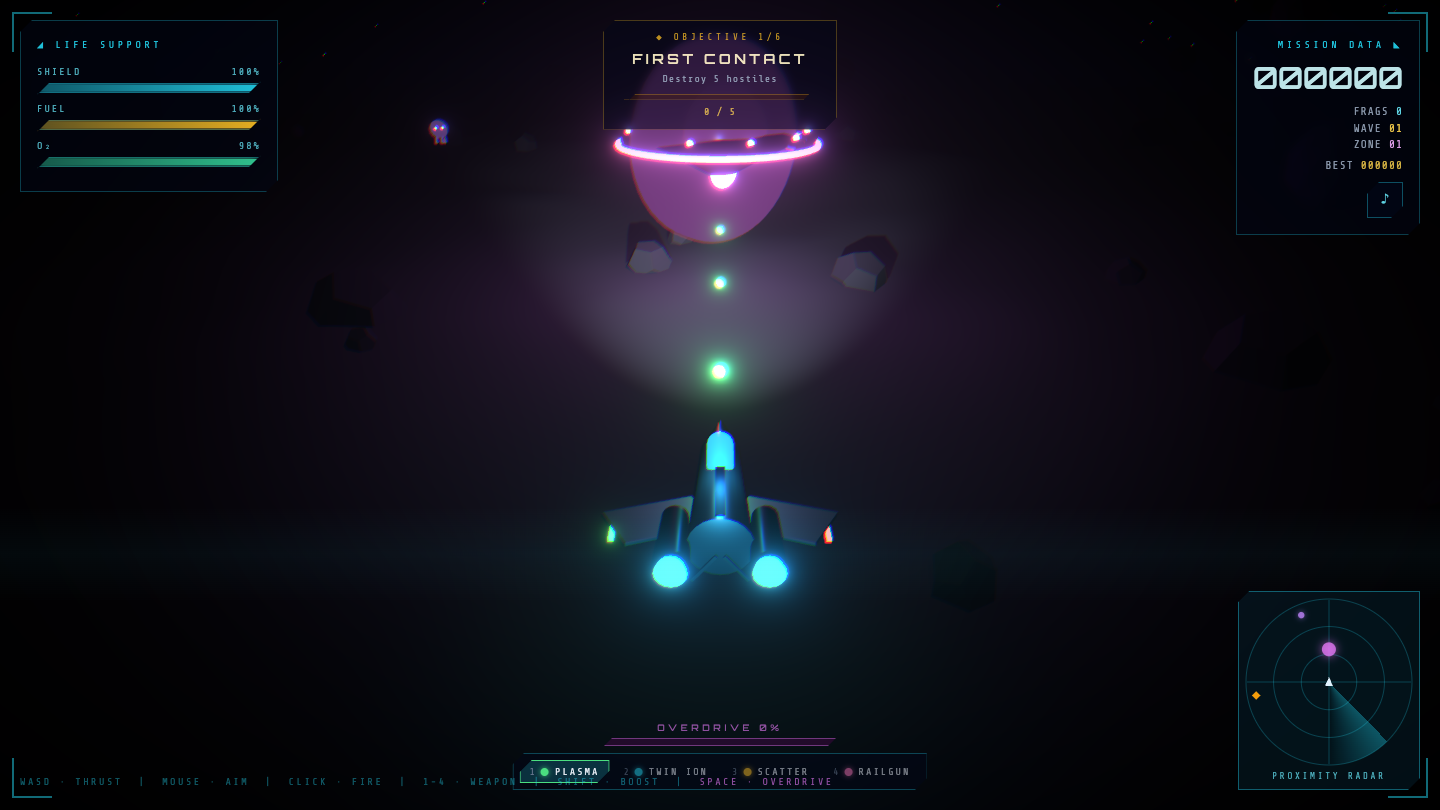
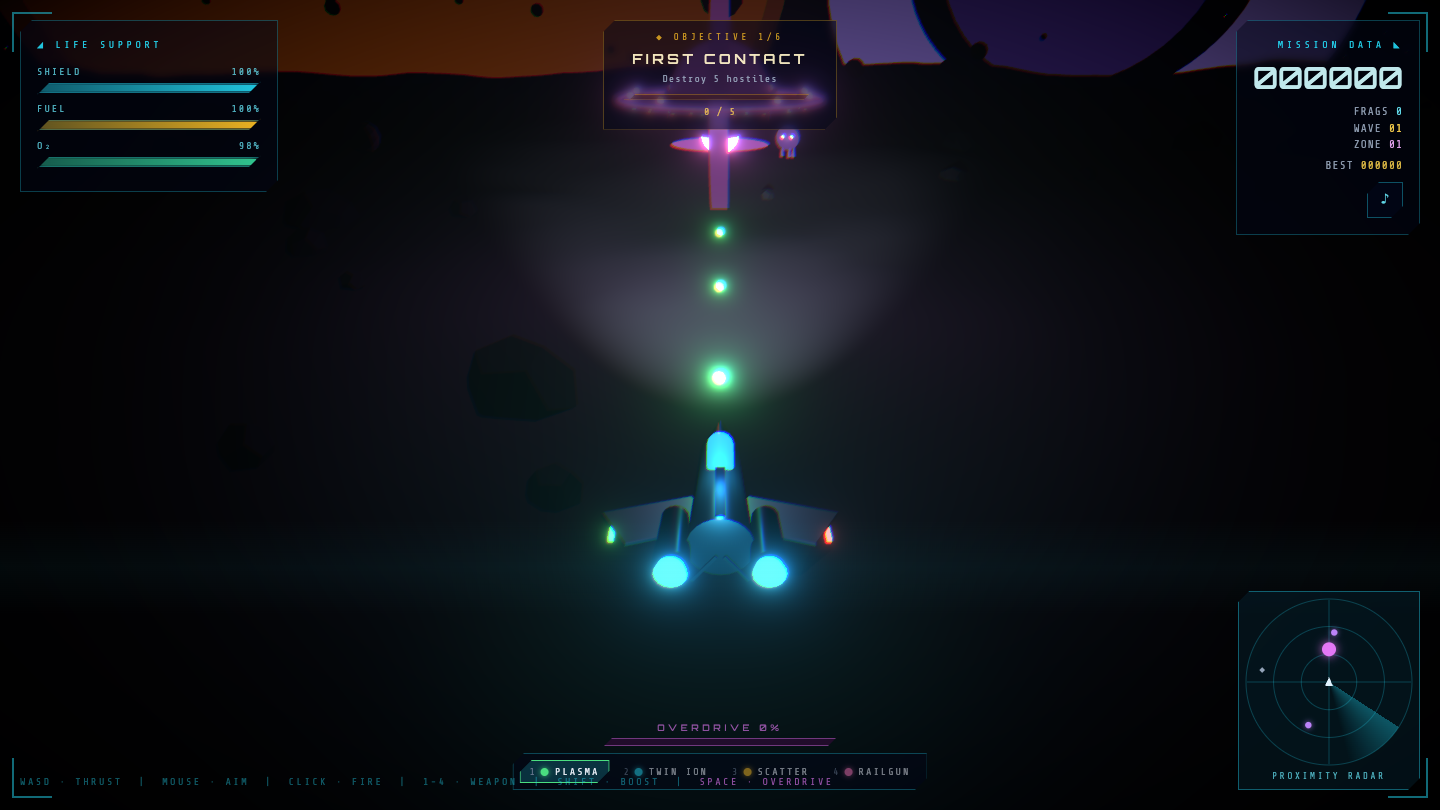
Mothership graphics overhaul + deep-space backdrop
- Mothership glow-up: bright animated electric energy ring, intensified
  magenta reactor core with a downward lens-flare, and 40 warm hull
  running-lights so the saucer reads like a lit city in the dark.
- Environment: distant spiral galaxies (canvas-textured additive sprites),
  a ringed gas giant, and a much larger red planet — all dropped onto the
  horizon line so they actually show under the downward camera. Denser
  starfield (8k).
- Stronger bloom (1.45 / 0.85 threshold) for the neon look.

diff --git a/components/Environment.tsx b/components/Environment.tsx
@@ -145,23 +145,98 @@ function FloatingAsteroids({ count = 45 }: { count?: number }) {
   );
 }
 
+// Soft radial glow texture for distant galaxies
+function makeGalaxyTexture(inner: string, outer: string) {
+  const size = 256;
+  const cv = document.createElement('canvas');
+  cv.width = cv.height = size;
+  const ctx = cv.getContext('2d')!;
+  const g = ctx.createRadialGradient(size / 2, size / 2, 0, size / 2, size / 2, size / 2);
+  g.addColorStop(0, inner);
+  g.addColorStop(0.25, outer);
+  g.addColorStop(1, 'rgba(0,0,0,0)');
+  ctx.fillStyle = g;
+  ctx.fillRect(0, 0, size, size);
+  // A couple of faint spiral sweeps for galaxy character
+  ctx.globalCompositeOperation = 'lighter';
+  ctx.strokeStyle = outer;
+  ctx.lineWidth = 6;
+  for (let s = 0; s < 2; s++) {
+    ctx.beginPath();
+    for (let a = 0; a < Math.PI * 2.4; a += 0.1) {
+      const r = a * 14 + 8;
+      const x = size / 2 + Math.cos(a + s * Math.PI) * r;
+      const y = size / 2 + Math.sin(a + s * Math.PI) * r * 0.5;
+      a === 0 ? ctx.moveTo(x, y) : ctx.lineTo(x, y);
+    }
+    ctx.stroke();
+  }
+  const tex = new THREE.CanvasTexture(cv);
+  return tex;
+}
+
+function Galaxies() {
+  const spirals = useMemo(
+    () => [
+      { tex: makeGalaxyTexture('rgba(255,255,255,0.9)', 'rgba(168,85,247,0.55)'), pos: [150, 38, -320], size: 64, rot: 0.5 },
+      { tex: makeGalaxyTexture('rgba(255,245,230,0.9)', 'rgba(56,189,248,0.4)'), pos: [-160, 48, -340], size: 50, rot: -0.8 },
+      { tex: makeGalaxyTexture('rgba(255,255,255,0.85)', 'rgba(232,121,249,0.45)'), pos: [40, 58, -350], size: 44, rot: 1.4 },
+    ],
+    []
+  );
+  return (
+    <>
+      {spirals.map((s, i) => (
+        <mesh key={i} position={s.pos as [number, number, number]} rotation={[0, 0, s.rot]}>
+          <planeGeometry args={[s.size, s.size]} />
+          <meshBasicMaterial
+            map={s.tex}
+            transparent
+            opacity={0.85}
+            blending={THREE.AdditiveBlending}
+            depthWrite={false}
+            fog={false}
+            toneMapped={false}
+          />
+        </mesh>
+      ))}
+    </>
+  );
+}
+
+// A distant ringed gas giant for depth
+function RingedPlanet() {
+  return (
+    <group position={[125, 34, -300]} rotation={[1.1, 0, 0.3]}>
+      <mesh>
+        <sphereGeometry args={[46, 48, 48]} />
+        <meshStandardMaterial color="#3b2a6b" emissive="#5b3ba8" emissiveIntensity={0.25} roughness={1} fog={false} />
+      </mesh>
+      <mesh rotation={[Math.PI / 2.1, 0, 0]}>
+        <ringGeometry args={[58, 88, 64]} />
+        <meshBasicMaterial color="#a78bfa" transparent opacity={0.35} side={THREE.DoubleSide} fog={false} toneMapped={false} />
+      </mesh>
+    </group>
+  );
+}
+
 function Mars() {
   return (
-    <group position={[-180, 90, -260]}>
+    <group position={[-95, 45, -285]}>
       <mesh>
-        <sphereGeometry args={[70, 48, 48]} />
+        <sphereGeometry args={[115, 64, 64]} />
         <meshStandardMaterial
           color="#7c2d12"
           emissive="#b4530a"
-          emissiveIntensity={0.22}
+          emissiveIntensity={0.28}
           roughness={1}
           fog={false}
         />
       </mesh>
-      {/* Faint rim glow */}
-      <mesh scale={1.04}>
-        <sphereGeometry args={[70, 32, 32]} />
-        <meshBasicMaterial color="#f97316" transparent opacity={0.05} side={THREE.BackSide} fog={false} />
+      {/* Atmospheric rim glow */}
+      <mesh scale={1.05}>
+        <sphereGeometry args={[115, 48, 48]} />
+        <meshBasicMaterial color="#f97316" transparent opacity={0.07} side={THREE.BackSide} fog={false} />
       </mesh>
     </group>
   );
@@ -175,8 +250,10 @@ export default function Environment() {
       {/* The faintest Mars-shine from above */}
       <hemisphereLight intensity={0.05} color="#b4530a" groundColor="#0a0a12" />
 
-      <Stars radius={300} depth={80} count={5000} factor={5} saturation={0} fade speed={0.4} />
+      <Stars radius={320} depth={90} count={8000} factor={5} saturation={0} fade speed={0.4} />
+      <Galaxies />
       <Mars />
+      <RingedPlanet />
       <PhobosTerrain />
       <SurfaceRocks />
       <FloatingAsteroids />

diff --git a/components/Aliens.tsx b/components/Aliens.tsx
@@ -24,6 +24,8 @@ function Alien({ data }: { data: AlienData }) {
   const healthBar = useRef<THREE.Mesh>(null);
   const droneTimer = useRef(5);
   const coreLight = useRef<THREE.PointLight>(null);
+  const ringMat = useRef<THREE.MeshStandardMaterial>(null);
+  const coreMat = useRef<THREE.MeshStandardMaterial>(null);
 
   const isBoss = data.kind === 2;
   const isMother = data.kind === 3;
@@ -85,10 +87,23 @@ function Alien({ data }: { data: AlienData }) {
           sfx.swap();
         }
       }
+      const c = enraged ? '#fb3b6b' : '#e879f9';
       if (coreLight.current) {
         const pulse = 0.7 + Math.sin(t * (enraged ? 9 : 4)) * 0.3;
-        coreLight.current.intensity = (enraged ? 220 : 140) * pulse;
-        coreLight.current.color.set(enraged ? '#fb3b6b' : '#e879f9');
+        coreLight.current.intensity = (enraged ? 240 : 150) * pulse;
+        coreLight.current.color.set(c);
+      }
+      // Electric energy ring crackles — fast erratic flicker
+      if (ringMat.current) {
+        const flick = 4 + Math.sin(t * 30) * 1.5 + Math.sin(t * 11.3) * 2;
+        ringMat.current.emissiveIntensity = enraged ? flick * 1.5 : flick;
+        ringMat.current.emissive.set(c);
+        ringMat.current.color.set(c);
+      }
+      if (coreMat.current) {
+        coreMat.current.emissiveIntensity = 7 + Math.sin(t * (enraged ? 12 : 5)) * 3;
+        coreMat.current.emissive.set(c);
+        coreMat.current.color.set(c);
       }
     }
 
@@ -145,13 +160,38 @@ function Alien({ data }: { data: AlienData }) {
           {/* Glowing reactor core under the hull */}
           <mesh position={[0, -1.4, 0]}>
             <sphereGeometry args={[1.0, 20, 20]} />
-            <meshStandardMaterial color={glowColor} emissive={glowColor} emissiveIntensity={6} toneMapped={false} />
+            <meshStandardMaterial ref={coreMat} color={glowColor} emissive={glowColor} emissiveIntensity={7} toneMapped={false} />
           </mesh>
-          {/* Rotating energy band around the rim */}
-          <mesh rotation={[Math.PI / 2, 0, 0]}>
-            <torusGeometry args={[5.3, 0.16, 8, 64]} />
-            <meshStandardMaterial color={glowColor} emissive={glowColor} emissiveIntensity={3.5} toneMapped={false} />
+          {/* Lens-flare disc blasting down from the core */}
+          <mesh position={[0, -1.9, 0]} rotation={[Math.PI / 2, 0, 0]}>
+            <circleGeometry args={[2.6, 32]} />
+            <meshBasicMaterial color={glowColor} transparent opacity={0.5} blending={THREE.AdditiveBlending} depthWrite={false} toneMapped={false} side={THREE.DoubleSide} />
           </mesh>
+          {/* Bright electric energy ring wrapping the hull (layered for glow) */}
+          <mesh rotation={[Math.PI / 2, 0, 0]} position={[0, 0.35, 0]}>
+            <torusGeometry args={[5.25, 0.09, 8, 96]} />
+            <meshStandardMaterial ref={ringMat} color={glowColor} emissive={glowColor} emissiveIntensity={5} toneMapped={false} />
+          </mesh>
+          <mesh rotation={[Math.PI / 2, 0, 0]} position={[0, 0.35, 0]}>
+            <torusGeometry args={[5.25, 0.3, 8, 96]} />
+            <meshBasicMaterial color={glowColor} transparent opacity={0.22} blending={THREE.AdditiveBlending} depthWrite={false} toneMapped={false} />
+          </mesh>
+          {/* Hull running-light strips — warm windows like a city in the dark */}
+          {Array.from({ length: 40 }).map((_, i) => {
+            const a = (i / 40) * Math.PI * 2;
+            const r = 4.2 + (i % 2) * 0.55;
+            return (
+              <mesh key={`win-${i}`} position={[Math.cos(a) * r, 0.05, Math.sin(a) * r]}>
+                <boxGeometry args={[0.12, 0.06, 0.12]} />
+                <meshStandardMaterial
+                  color={i % 3 === 0 ? '#67e8f9' : '#fb923c'}
+                  emissive={i % 3 === 0 ? '#67e8f9' : '#fb923c'}
+                  emissiveIntensity={4}
+                  toneMapped={false}
+                />
+              </mesh>
+            );
+          })}
           {/* Turret pods + running lights around the rim */}
           {Array.from({ length: 10 }).map((_, i) => {
             const a = (i / 10) * Math.PI * 2;

diff --git a/components/Game.tsx b/components/Game.tsx
@@ -81,7 +81,7 @@ export default function Game() {
         )}
 
         <EffectComposer>
-          <Bloom mipmapBlur intensity={1.1} luminanceThreshold={1.0} luminanceSmoothing={0.3} />
+          <Bloom mipmapBlur intensity={1.45} luminanceThreshold={0.85} luminanceSmoothing={0.4} />
           <ChromaticAberration offset={aberration} radialModulation={false} modulationOffset={0} />
           <Vignette eskil={false} offset={0.18} darkness={0.85} />
         </EffectComposer>